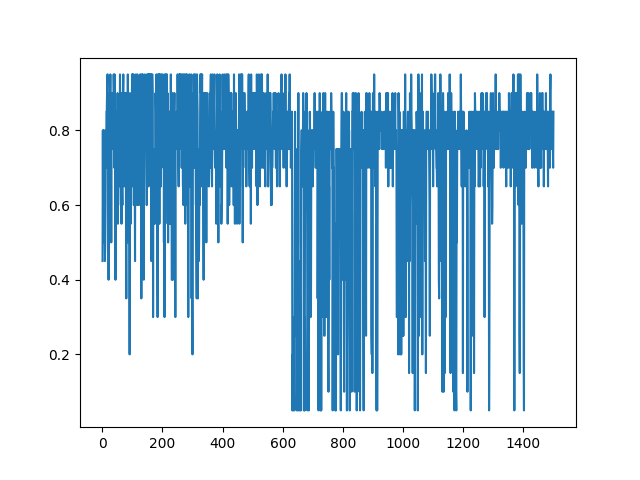
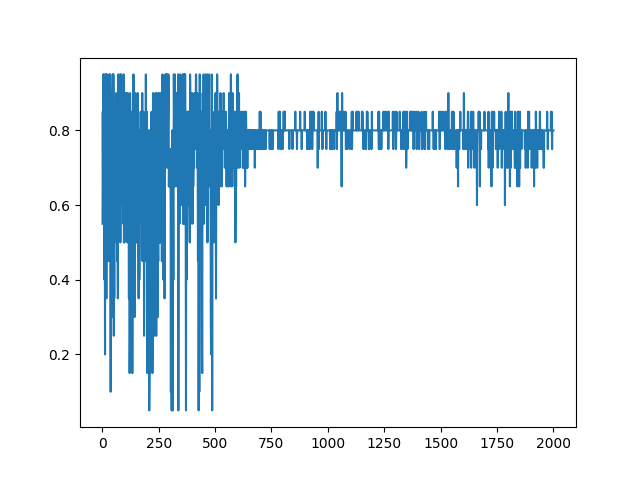
update env

diff --git a/market_env/env.py b/market_env/env.py
@@ -10,8 +10,7 @@ import numpy as np
 from market_env.constants import DEBT_TOKEN_PREFIX, INTEREST_TOKEN_PREFIX
 from market_env.utils import PriceDict
 
-# set logging level
-logging.basicConfig(level=logging.INFO)
+# set logging level to debug
 
 
 class DefiEnv:
@@ -83,7 +82,8 @@ class User:
         self,
         env: DefiEnv,
         name: str,
-        safety_margin=0.05,
+        safety_borrow_margin=0.05,
+        safety_supply_margin=0.05,
         funds_available: Optional[dict] = None,
     ):
         assert name not in env.users, f"User {name} exists"
@@ -95,17 +95,18 @@ class User:
             funds_available = {"dai": 0.0, "eth": 0.0}
         self._initial_funds_available = funds_available.copy()
         self.funds_available = funds_available.copy()
-        self.env = env
 
         self.name = name
-        self.safety_margin = safety_margin
-        self._initial_safety_margin = safety_margin
-        self.consecutive_healthy_borrows = 0
+        self._initial_safety_borrow_margin = safety_borrow_margin
+        self._initial_safety_supply_margin = safety_supply_margin
+        self.reset()
 
     def reset(self):
         self.funds_available = self._initial_funds_available.copy()
-        self.consecutive_healthy_borrows = 0
-        self.safety_margin = self._initial_safety_margin
+        self.consecutive_good_borrows = 0
+        self.consecutive_good_supplies = 0
+        self.safety_borrow_margin = self._initial_safety_borrow_margin
+        self.safety_supply_margin = self._initial_safety_supply_margin
 
     @property
     def wealth(self) -> float:
@@ -223,38 +224,55 @@ class User:
         existing_borrow = self.funds_available[plf.borrow_token_name]
         existing_supply = self.funds_available[plf.interest_token_name]
 
-        max_borrow = existing_supply * plf.collateral_factor / (1 + self.safety_margin)
+        max_borrow = (
+            existing_supply * plf.collateral_factor / (1 + self.safety_borrow_margin)
+        )
+
+        max_supply = (existing_supply + self.funds_available[plf.asset_name]) / (
+            1 + self.safety_supply_margin
+        )
 
         if max_borrow > existing_borrow:  # healthy loan
             if plf.borrow_apy <= plf.competing_borrow_apy + 0.01:
+                self.consecutive_good_borrows += 1
                 # can borrow up to the buffer
                 self._borrow_repay(max_borrow - existing_borrow, plf)
             else:
                 # repay as much as you can
                 self._borrow_repay(-self.funds_available[plf.asset_name], plf)
 
-            # can deposit all existing funds in the pool if the competing supply APY is no higher than the plf supply APY plus 1%
-            if plf.supply_apy >= plf.competing_supply_apy - 0.01:
-                self._supply_withdraw(self.funds_available[plf.asset_name], plf)
-            else:
+            if plf.competing_supply_apy >= plf.supply_apy + 0.01:
+                self.consecutive_good_supplies = 0
                 # withdraw as much as you can
                 self._supply_withdraw(-plf.user_i_tokens[self.name], plf)
+            else:
+                self.consecutive_good_supplies += 1
+                supply_amount = max(
+                    min(
+                        self.funds_available[plf.asset_name],
+                        max_supply - existing_supply,
+                    ),
+                    0,
+                )
+                self._supply_withdraw(supply_amount, plf)
 
-            self.consecutive_healthy_borrows += 1
-            if self.consecutive_healthy_borrows > 10 and self.safety_margin > 0.05:
-                self.safety_margin -= 0.05
         else:  # unhealthy loan
+            self.consecutive_good_borrows = 0
             # repay as much as you can
             self._borrow_repay(-self.funds_available[plf.asset_name], plf)
             existing_borrow = self.funds_available[plf.borrow_token_name]
             existing_supply = self.funds_available[plf.interest_token_name]
-            self.consecutive_healthy_borrows = 0
 
             if existing_borrow > existing_supply * plf.collateral_factor:
+                self.safety_borrow_margin += 0.05
                 # inject funds to the user to repay the loan
                 self.funds_available[plf.asset_name] += existing_borrow * 0.1
                 self._borrow_repay(self.funds_available[plf.asset_name], plf)
-                self.safety_margin += 0.05
+
+        if self.consecutive_good_borrows > 10 and self.safety_borrow_margin > 0.05:
+            self.safety_borrow_margin -= 0.05
+        if self.consecutive_good_supplies > 10 and self.safety_supply_margin > 0.05:
+            self.safety_supply_margin -= 0.05
 
 
 class PlfPool:
@@ -285,18 +303,19 @@ class PlfPool:
         self.env = env
         self.initiator = initiator
         self.initial_starting_funds = initial_starting_funds
-        self._collateral_factor = collateral_factor
         self.asset_name = asset_name
         self.competing_supply_apy = competing_supply_apy
         self.competing_borrow_apy = competing_borrow_apy
         self.initial_collar_factor = collateral_factor
-        self.env.plf_pools[self.asset_name] = self
-        self.user_i_tokens = {self.initiator.name: self.initial_starting_funds}
-        self.user_b_tokens = {self.initiator.name: 0.0}
         self.reset()
 
     def reset(self):
-        self.collateral_factor = self.initial_collar_factor
+        self.env.plf_pools[self.asset_name] = self
+        self.user_i_tokens: dict[str, float] = {
+            self.initiator.name: self.initial_starting_funds
+        }
+        self.user_b_tokens: dict[str, float] = {self.initiator.name: 0.0}
+        self._collateral_factor: float = self.initial_collar_factor
         self.previous_reserve: float = 0.0
         self.previous_profit: float = 0.0
         self.reward: float = 0.0
@@ -320,7 +339,17 @@ class PlfPool:
         self.initiator.funds_available[self.borrow_token_name] = 0
 
     def __repr__(self) -> str:
-        return f"{self.asset_name} PLF: (available funds = {self.total_available_funds}, borrowed funds = {self.total_borrowed_funds}, profit = {self.reserve})"
+        return (
+            f"{self.asset_name} PLF: "
+            + f"Collateral factor: {self.collateral_factor:.2f} \n"
+            + f"Supply APY: {self.supply_apy:.5f} \n"
+            + f"Borrow APY: {self.borrow_apy:.5f} \n"
+            + f"total borrow: {self.total_b_tokens:.4f} \n"
+            + f"total supply: {self.total_i_tokens:.4f} \n"
+            + f"total available funds: {self.total_available_funds:.4f} \n"
+            + f"utilization rate: {self.utilization_ratio:.5f}\n"
+            + f"reserve: {self.reserve:.4f} \n"
+        )
 
     @property
     def collateral_factor(self):
@@ -334,6 +363,7 @@ class PlfPool:
 
     # actions
     def lower_collateral_factor(self) -> None:
+        # affect users who are borrowing from this pool
         new_collateral_factor = self.collateral_factor - 0.05
         # Constrain check
         # if the new collateral factor is less than 0
@@ -343,6 +373,8 @@ class PlfPool:
             self.reward = -90
         else:
             self.collateral_factor = new_collateral_factor
+            for user in self.env.users.values():
+                user.safety_borrow_margin += 0.05
             self.update_market()
 
     def keep_collateral_factor(self) -> None:
@@ -358,23 +390,16 @@ class PlfPool:
             self.reward = -90
         else:
             self.collateral_factor = new_collateral_factor
+            # affect users who are supplying to this pool with higher exposure to default risk
+            for user in self.env.users.values():
+                user.safety_supply_margin += 0.05
             self.update_market()
 
     def update_market(self) -> None:
-        # self.previous_profit = self.profit
-
         self.accrue_daily_interest()
         for user in self.env.users.values():
             user.reactive_action(self)
-
-        this_profit = self.get_profit()
-        if this_profit <= 0:
-            self.reward = -10
-        else:
-            reward_diff = this_profit - self.previous_profit
-            self.previous_profit = this_profit
-            self.reward = reward_diff
-        self.reward = this_profit
+        self.reward = self.get_profit()
 
     def get_reward(self) -> float:
         """
@@ -403,10 +428,6 @@ class PlfPool:
 
     @property
     def utilization_ratio(self) -> float:
-        # ratio =
-        # self.total_borrowed_funds / (
-        #     self.total_available_funds + self.total_borrowed_funds
-        # )
         if self.total_b_tokens == 0:
             return 0
         return self.total_b_tokens / self.total_i_tokens
@@ -446,22 +467,27 @@ class PlfPool:
     def borrow_lend_rates(
         self,
         util_rate: float,
-        rb_factor: float = 50,
-        rs_factor: float = 100,
+        spread: float = 0.2,
+        rb_factor: float = 20,
     ) -> tuple[float, float]:
         # TODO: check where to put the factors
         """
         calculate borrow and supply rates based on utilization ratio
         with an arbitrarily-set shape
         """
+        # theoretically unnecessary, but to avoid floating point errors
+        if util_rate == 0:
+            return 0, 0
 
-        # assert (
-        #     0 <= util_rate < 1
-        # ), f"utilization ratio must lie in [0,1), but got {util_rate}"
-        util_rate = min(util_rate, 1 - 1e-6)
+        assert (
+            0 < util_rate
+        ), f"utilization ratio must be non-negative, but got {util_rate}"
+        constrained_util_rate = min(util_rate, 1 - 1e-6)
 
-        borrow_rate = util_rate / (rb_factor * (1 - util_rate))
-        supply_rate = util_rate / (rs_factor * (1 - util_rate))
+        borrow_rate = constrained_util_rate / (rb_factor * (1 - constrained_util_rate))
+        daily_borrow_interest = (1 + borrow_rate) ** (1 / 365) - 1
+        daily_supply_interest = daily_borrow_interest * constrained_util_rate
+        supply_rate = ((1 + daily_supply_interest) ** 365 - 1) * (1 - spread)
 
         return borrow_rate, supply_rate
 
@@ -490,33 +516,35 @@ class PlfPool:
 
 
 if __name__ == "__main__":
+    logging.basicConfig(level=logging.DEBUG)
     # initialize environment
     defi_env = DefiEnv(prices=PriceDict({"tkn": 1}))
-    Alice = User(name="alice", env=defi_env, funds_available={"tkn": 2_000})
+    Alice = User(name="alice", env=defi_env, funds_available={"tkn": 20_000})
     plf = PlfPool(
         env=defi_env,
         initiator=Alice,
-        initial_starting_funds=500,
+        initial_starting_funds=5_000,
         asset_name="tkn",
         collateral_factor=0.8,
     )
     print("Initial")
     print(f"**Alice {Alice} \n")
-    print(f"++{plf} \n")
+    print(plf)
 
     # Alice react first
+    plf.update_market()
     Alice.reactive_action(plf)
     print(f"**Alice {Alice} \n")
-    print(f"++{plf} \n")
+    print(plf)
 
     defi_env.reset()
     print("After reset")
     print(f"**Alice {Alice} \n")
-    print(f"++{plf} \n")
+    print(plf)
 
     # then the market update
-    plf.raise_collateral_factor()
     plf.update_market()
+    plf.raise_collateral_factor()
     Alice.reactive_action(plf)
     print(f"**Alice {Alice} \n")
-    print(f"++{plf} \n")
+    print(plf)

diff --git a/rl/main_gov.py b/rl/main_gov.py
@@ -8,19 +8,18 @@ from market_env.env import DefiEnv, PlfPool, PriceDict, User
 from rl.dqn_gov import Agent
 from rl.rl_env import ProtocolEnv
 from rl.utils import plot_learning_curve
-import torch
 
-# show logging level at info
-logging.basicConfig(level=logging.DEBUG)
 
 if __name__ == "__main__":
+    # show logging level at info
+    logging.basicConfig(level=logging.INFO)
     # initialize environment
     defi_env = DefiEnv(prices=PriceDict({"tkn": 1}))
-    Alice = User(name="alice", env=defi_env, funds_available={"tkn": 1_000_000})
+    Alice = User(name="alice", env=defi_env, funds_available={"tkn": 10_000})
     plf = PlfPool(
         env=defi_env,
         initiator=Alice,
-        initial_starting_funds=800_000,
+        initial_starting_funds=8_000,
         asset_name="tkn",
         collateral_factor=0.8,
     )
@@ -42,11 +41,11 @@ if __name__ == "__main__":
     # agent = Agent(state_size, action_size)
 
     scores, eps_history = [], []
-    n_games = 500
+    N_GAMES = 2_000
 
     collateral_factors = []
 
-    for i in range(n_games):
+    for i in range(N_GAMES):
         score = 0
         done = False
         observation = env.reset()
@@ -71,7 +70,7 @@ if __name__ == "__main__":
 
     # torch.save(agent.q_eval.state_dict(), "models/dqn_gov.pth")
 
-    x = [i + 1 for i in range(n_games)]
+    x = [i + 1 for i in range(N_GAMES)]
     filename = path.join(FIGURES_PATH, "defi.png")
     plot_learning_curve(x, scores, eps_history, filename)
     plt.clf()
